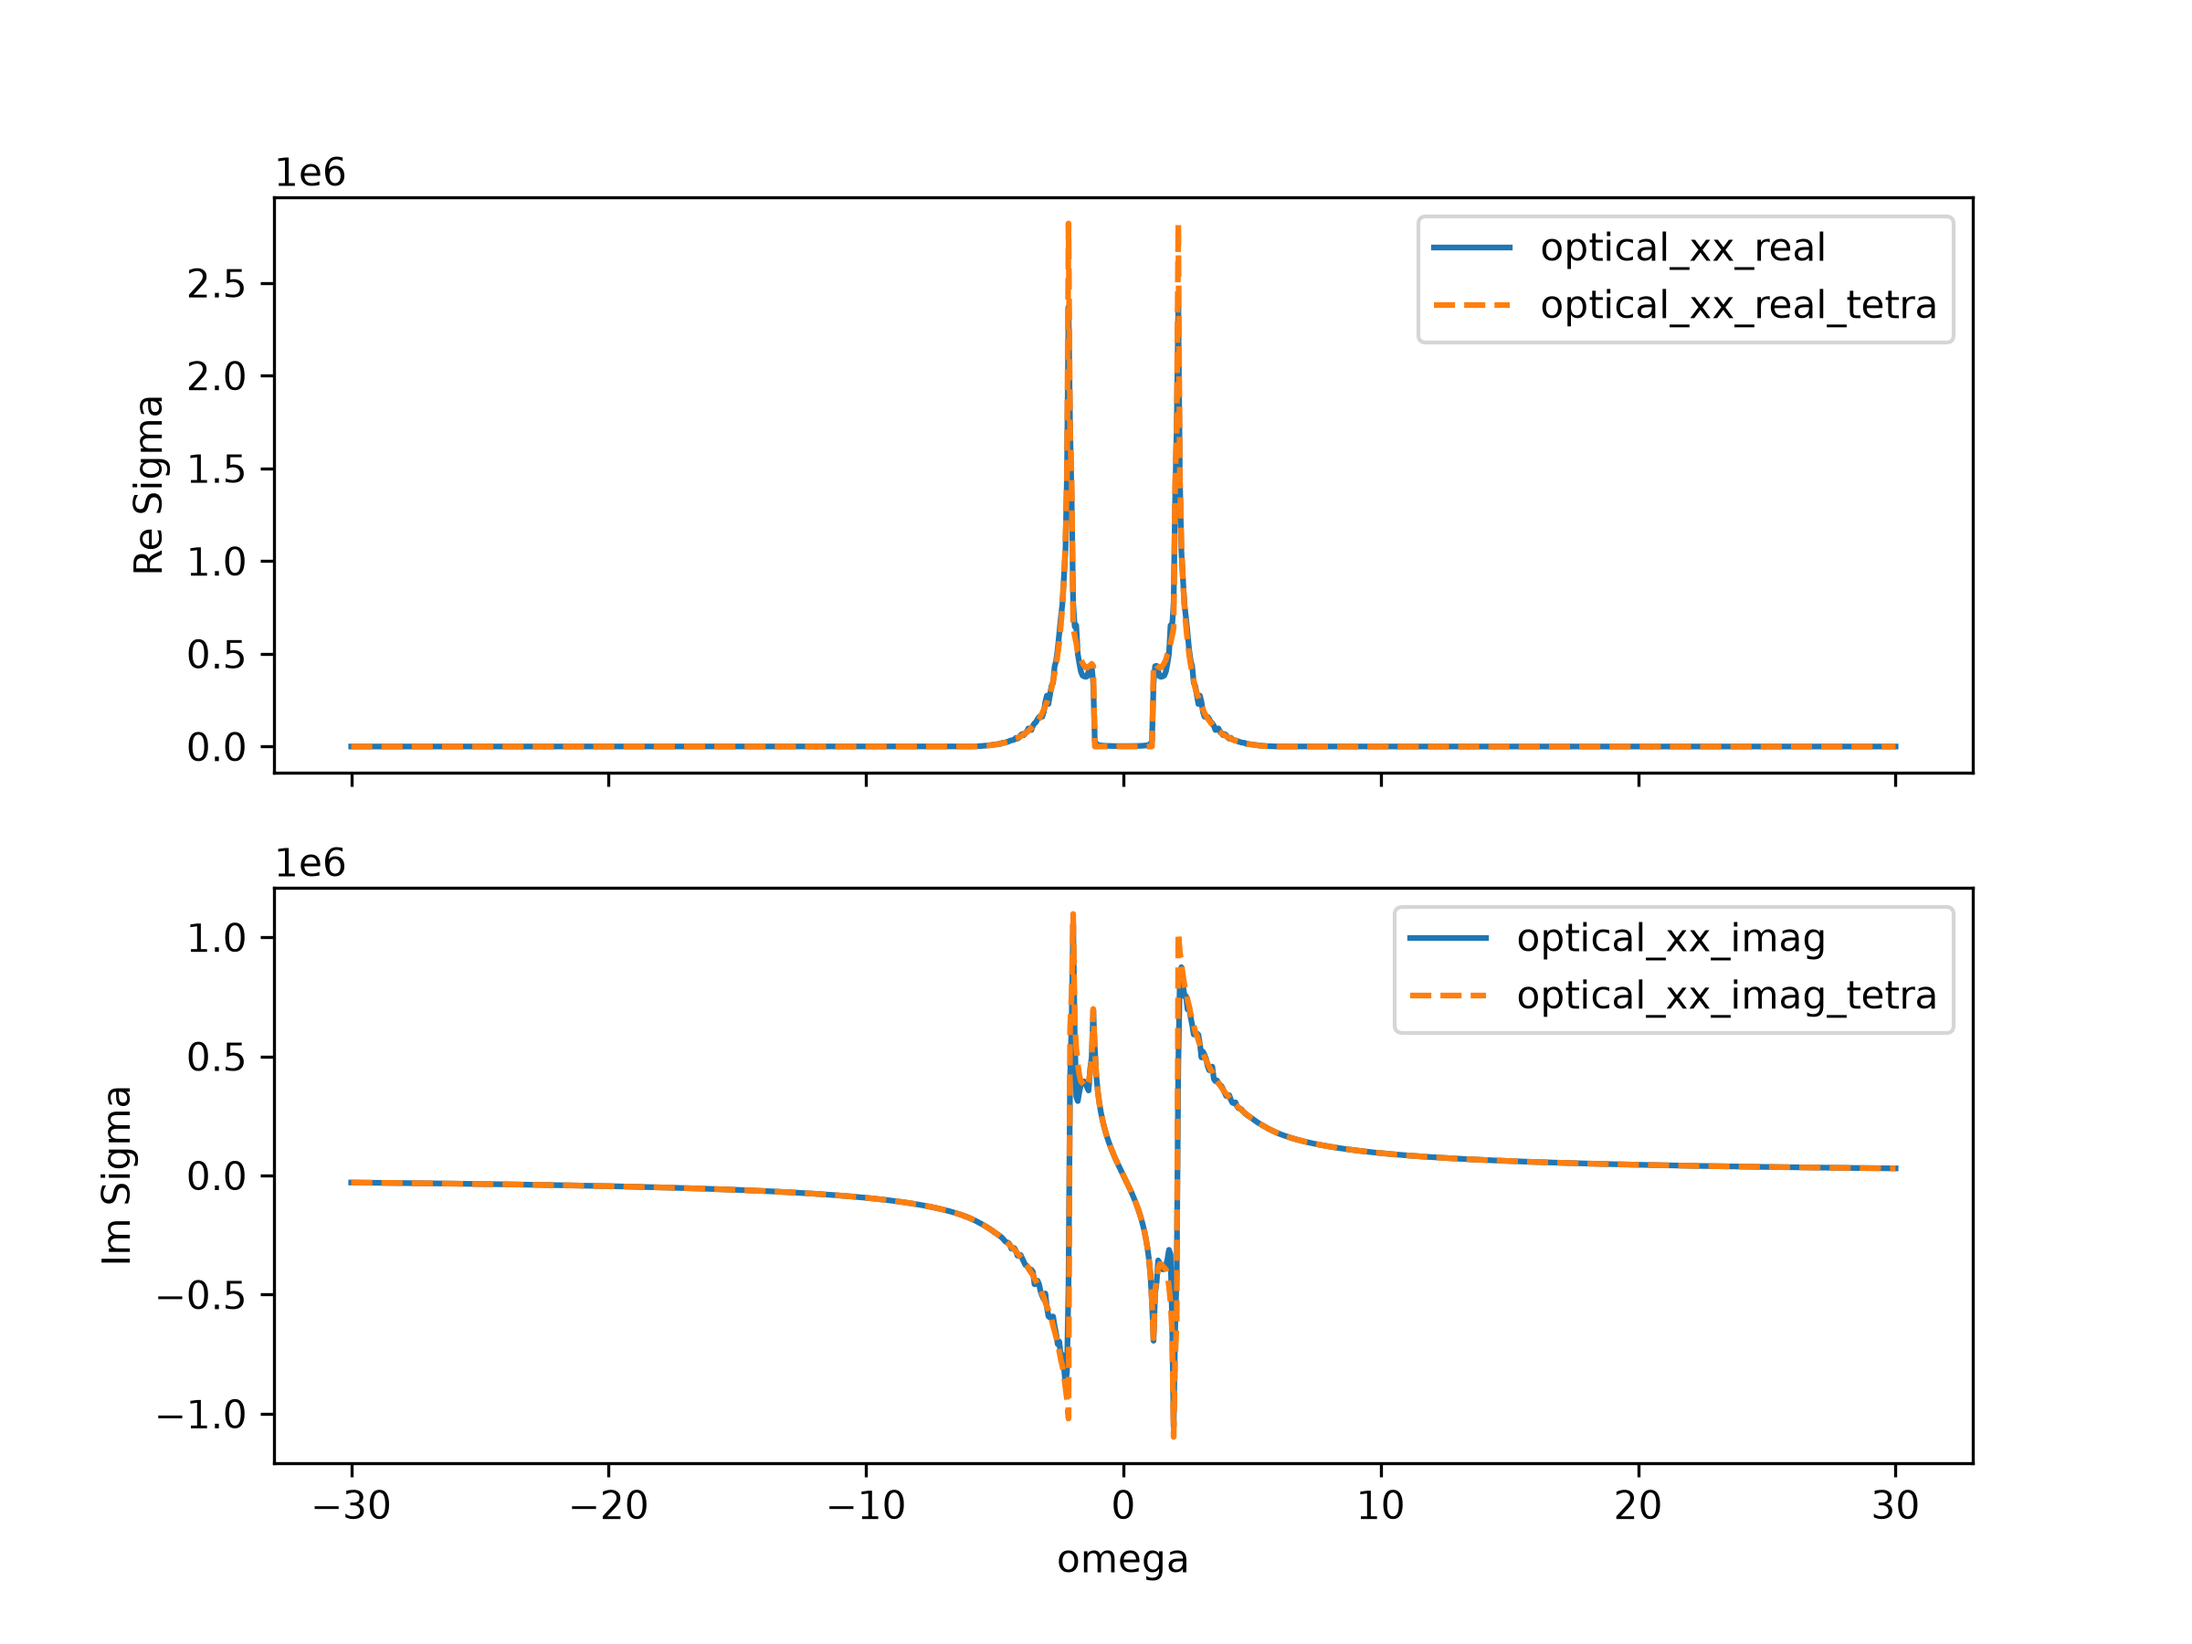
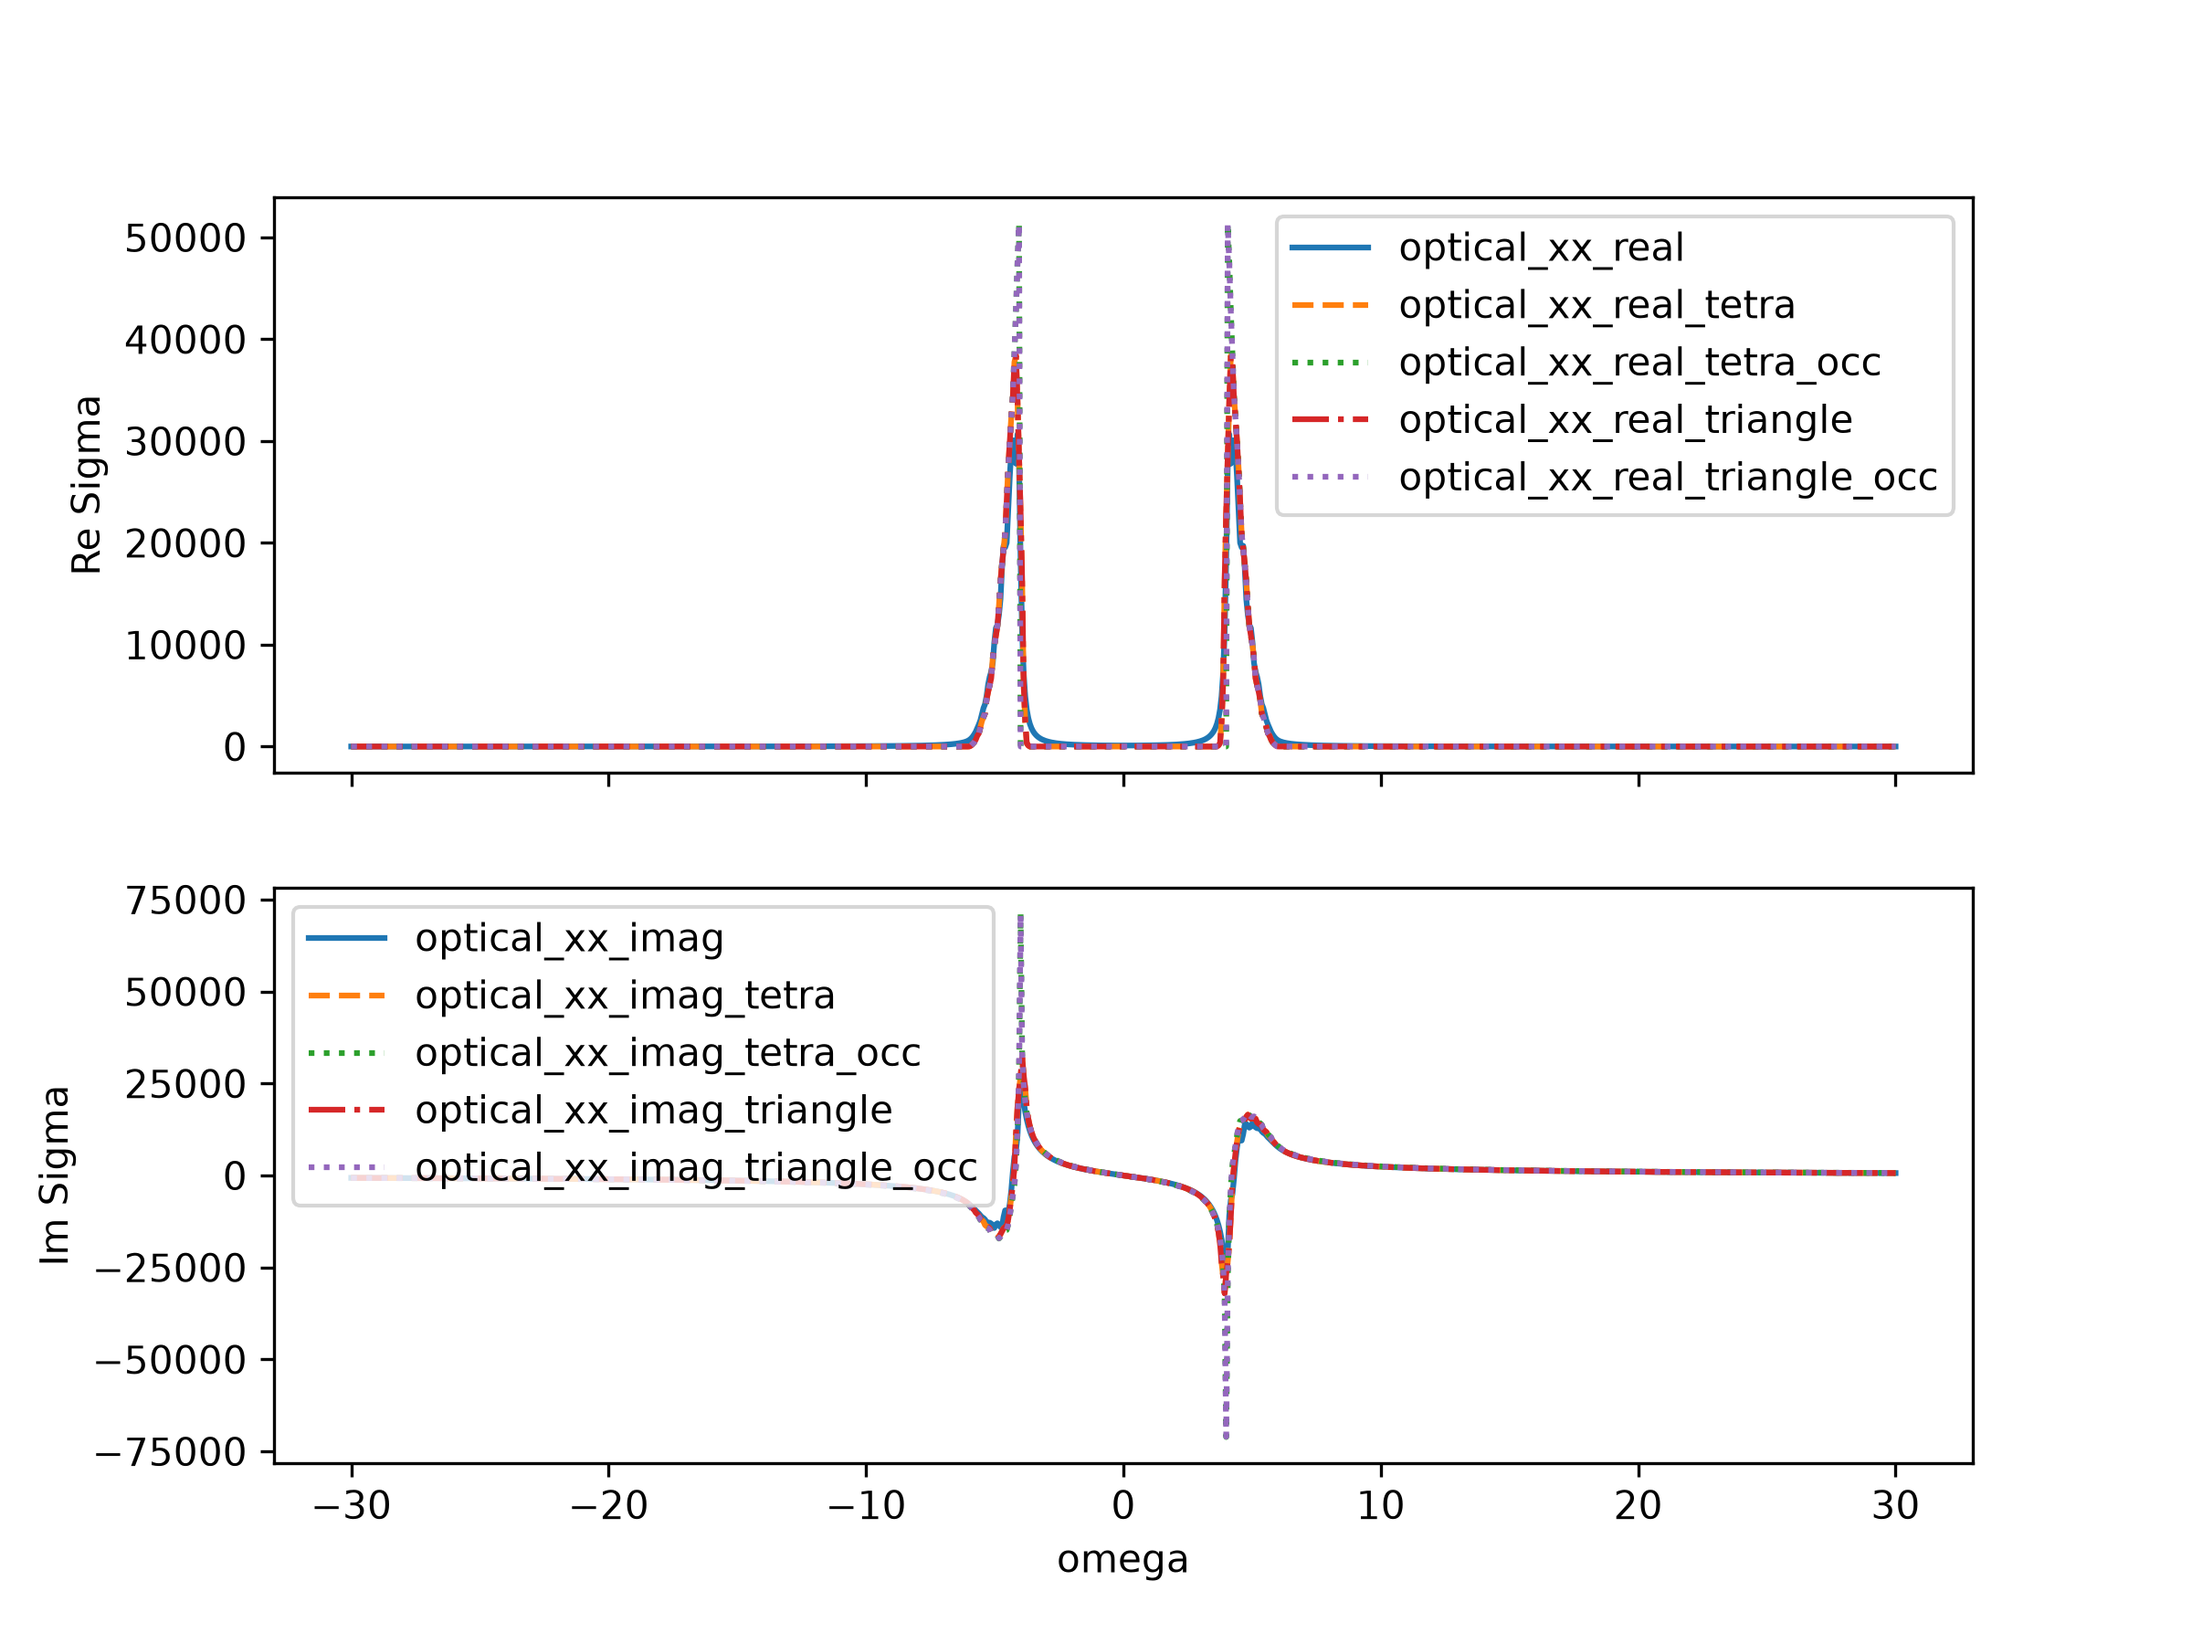
caching numba

diff --git a/examples/Haldane_optical_tetra/optical_tetra.py b/examples/Haldane_optical_tetra/optical_tetra.py
@@ -1,56 +1,59 @@
 from matplotlib import pyplot as plt
 import numpy as np
-from wannierberri.models import Chiral, Haldane_ptb, Haldane_double
+from wannierberri.models import Haldane_ptb
 from wannierberri.system import System_R
-from wannierberri.calculators.dynamic import JDOS, OpticalConductivity, SHC
-from wannierberri.calculators.static import DOS
+from wannierberri.calculators.dynamic import OpticalConductivity
 from wannierberri import Grid, run
 from wannierberri import configure_logging
 import ray
 ray.init(num_cpus=16)
 configure_logging()
 
-# model = Chiral()
 model = Haldane_ptb()
 system = System_R.from_pythtb(model)
-system.set_pointgroup(["C3z"])
+# system.set_pointgroup(["C3z"])
 
-# system = Haldane_double()
 
 omega = np.linspace(-30, 30, 1000)
 Efermi = np.linspace(-5, 5, 1000)
-Efermi0 = np.array([0.0])
+Efermi0 = np.array([-2.0])
 kwargs_shc = dict(Efermi=Efermi0, omega=omega, SHC_type="simple")
 calculators = {
-    # "jdos": JDOS(Efermi=Efermi0, omega=omega, kBT=0.001, smr_fixed_width=0.005),
-    # "jdos_tetra": JDOS(Efermi=Efermi0, omega=omega, tetra_delta=True),
-    "optical": OpticalConductivity(Efermi=Efermi0, omega=omega, smr_fixed_width=0.01),
-    "optical_tetra": OpticalConductivity(Efermi=Efermi0, omega=omega, tetra_delta=True, tetra_reactive=True),
-    # "SHC": SHC(**kwargs_shc, smr_fixed_width=0.05),
-    # "SHC_tetra": SHC(**kwargs_shc, tetra=True),
-    # "dos": DOS(Efermi=Efermi, tetra=True),
+    "optical": OpticalConductivity(Efermi=Efermi0, omega=omega, smr_fixed_width=0.1),
+    "optical_tetra_delta": OpticalConductivity(Efermi=Efermi0, omega=omega, tetra_delta=True, tetra_reactive=False, tetra_occupation=False),
+    "optical_tetra_reactive": OpticalConductivity(Efermi=Efermi0, omega=omega, tetra_delta=False, tetra_reactive=True, tetra_occupation=False),
+    "optical_tetra_all": OpticalConductivity(Efermi=Efermi0, omega=omega, tetra_delta=True, tetra_reactive=True, tetra_occupation=True),
 }
 
-grid = Grid(system, NK=120)
-
-results = run(system, grid=grid, calculators=calculators)  # , use_irred_kpt=False, symmetrize=False)  # do not use symmetry because tetrahedron is not very symmetric
+grid = Grid(system, NK=9)
 
 
+
+
+results_tetra = run(system, grid=grid, calculators=calculators, parameters_K={"use_tetra_in_low_D":True})  # , use_irred_kpt=False, symmetrize=False)  # do not use symmetry because tetrahedron is not very symmetric
+results_triangle = run(system, grid=grid, calculators=calculators, parameters_K={"use_tetra_in_low_D":False})  # , use_irred_kpt=False, symmetrize=False)  # do not use symmetry because tetrahedron is not very symmetric
 key = "optical"
 component = (0, 0)
 
-# key = "SHC"
-# component = (0,1,2)
 
-data_smr = results.results[f"{key}"].data[0]
-data_tetra = results.results[f"{key}_tetra"].data[0]
+data_smr = results_tetra.results[f"{key}"].data[0]
+data_tetra = results_tetra.results[f"{key}_tetra"].data[0]
+data_tetra_occ = results_tetra.results[f"{key}_tetra_occ"].data[0]
+data_triangle = results_triangle.results[f"{key}_tetra"].data[0]
+data_triangle_occ = results_triangle.results[f"{key}_tetra_occ"].data[0]
 component_str = "".join(["xyz"[i] for i in component])
 
 fig, axes = plt.subplots(2, 1, figsize=(8, 6), sharex=True)
-axes[0].plot(omega, data_smr[:, *component].real, label=f"{key}_{component_str}_real")
-axes[0].plot(omega, data_tetra[:, *component].real, label=f"{key}_{component_str}_real_tetra", linestyle="--")
-axes[1].plot(omega, data_smr[:, *component].imag, label=f"{key}_{component_str}_imag")
-axes[1].plot(omega, data_tetra[:, *component].imag, label=f"{key}_{component_str}_imag_tetra", linestyle="--")
+# axes[0].plot(omega, data_smr[:, *component].real, label=f"{key}_{component_str}_real")
+# axes[0].plot(omega, data_tetra[:, *component].real, label=f"{key}_{component_str}_real_tetra", linestyle="--")
+# axes[0].plot(omega, data_tetra_occ[:, *component].real, label=f"{key}_{component_str}_real_tetra_occ", linestyle=":")
+axes[0].plot(omega, data_triangle[:, *component].real, label=f"{key}_{component_str}_real_triangle", linestyle="-.")
+axes[0].plot(omega, data_triangle_occ[:, *component].real, label=f"{key}_{component_str}_real_triangle_occ", linestyle=":")
+# axes[1].plot(omega, data_smr[:, *component].imag, label=f"{key}_{component_str}_imag")
+# axes[1].plot(omega, data_tetra[:, *component].imag, label=f"{key}_{component_str}_imag_tetra", linestyle="--")
+# axes[1].plot(omega, data_tetra_occ[:, *component].imag, label=f"{key}_{component_str}_imag_tetra_occ", linestyle=":")
+axes[1].plot(omega, data_triangle[:, *component].imag, label=f"{key}_{component_str}_imag_triangle", linestyle="-.")
+axes[1].plot(omega, data_triangle_occ[:, *component].imag, label=f"{key}_{component_str}_imag_triangle_occ", linestyle=":") 
 axes[0].set_ylabel(f"Re Sigma")
 axes[1].set_ylabel(f"Im Sigma")
 axes[1].set_xlabel("omega")

diff --git a/wannierberri/utility.py b/wannierberri/utility.py
@@ -1,4 +1,5 @@
 
+import numba
 import datetime
 from collections.abc import Iterable
 import os
@@ -12,6 +13,17 @@ logger = logging.getLogger(__name__)
 
 # Global cache to store einsum paths
 EINSUM_PATH_CACHE = {}
+
+
+
+NUMBA_CACHE = True   # flip to False in one place
+
+
+def njit(*args, **kwargs):
+    kwargs.setdefault("cache", NUMBA_CACHE)
+    if len(args) == 1 and callable(args[0]):  # bare @njit
+        return numba.njit(**kwargs)(args[0])
+    return numba.njit(*args, **kwargs)        # @njit(...) or @njit("sig", ...)
 
 
 def cached_einsum(subscripts, *operands,

diff --git a/wannierberri/grid/tetratriangle.py b/wannierberri/grid/tetratriangle.py
@@ -1,6 +1,6 @@
 
 import numpy as np
-from numba import njit
+from ..utility import njit
 
 from .triangle import weights_triangle, _add_principal_2d, occupied_triangles
 from .tetrahedron import weights_tetra, _add_principal_3d, occupied_tetrahedra
@@ -88,6 +88,7 @@ def _edges_in_range(edges, emin, emax):
 def _omega_in_range(omega, emin, emax):
     """the slice lo:hi of the increasing values omega within [emin, emax]"""
     return np.searchsorted(omega, emin, side='left'), np.searchsorted(omega, emax + 1e-10, side='right')
+
 
 
 @njit

diff --git a/wannierberri/grid/triangle.py b/wannierberri/grid/triangle.py
@@ -1,4 +1,4 @@
-from numba import njit
+from ..utility import njit
 import numpy as np
 
 
